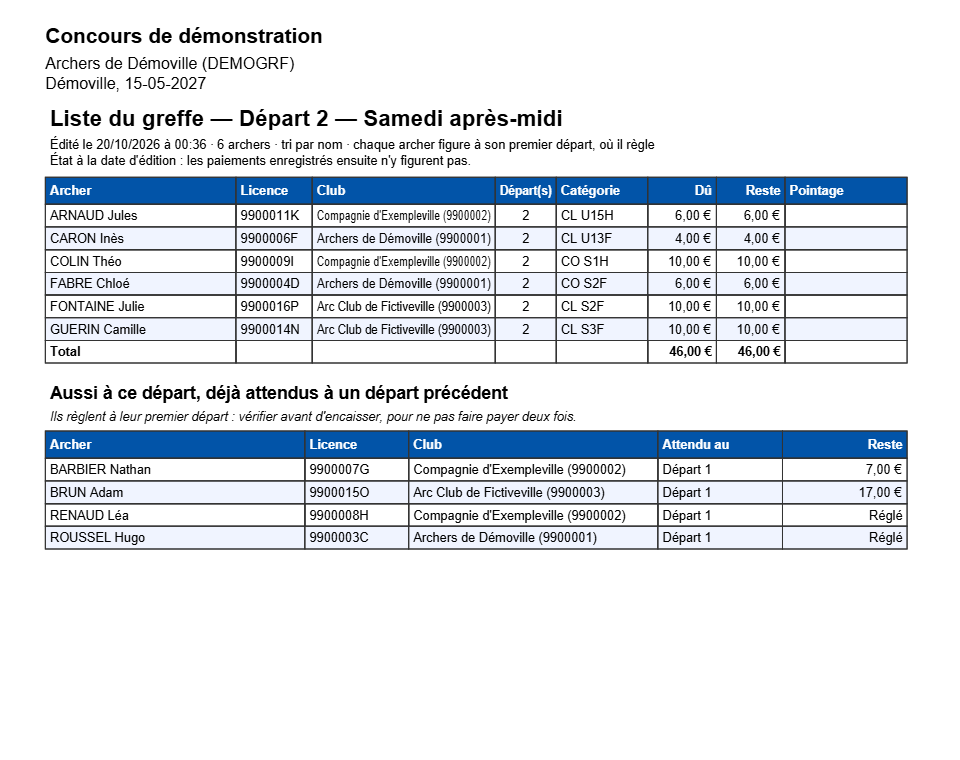
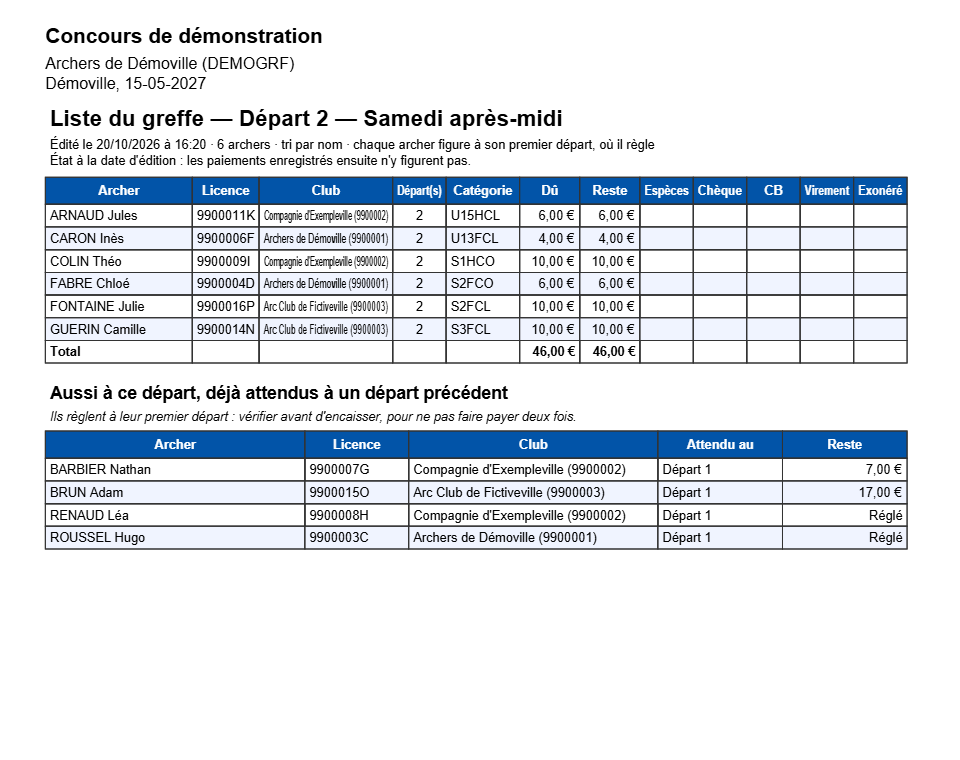
GREFFE 1.3.3 : liste papier par moyen de paiement, catégories S2HCL

diff --git a/liste.php b/liste.php
@@ -9,9 +9,9 @@
  *   ?sort=club      tri par club puis nom (défaut : nom)
  *
  * Par départ, un archer figure au départ où il règle, son premier départ ; ses départs suivants
- * le rappellent dans un encadré « déjà attendu » (lib/report.php, eng_greffe_list). La colonne
- * « Pointage » reste vide pour noter le règlement à la main ; elle porte le moyen et la date d'un
- * paiement déjà enregistré.
+ * le rappellent dans un encadré « déjà attendu » (lib/report.php, eng_greffe_list). Une colonne
+ * par moyen de paiement, vide pour cocher le règlement à la main ; un paiement déjà enregistré y
+ * porte sa date, dans la colonne de son moyen.
  */
 define('ENG_ACCESS', 'read');
 require_once __DIR__ . '/lib/boot.php';
@@ -50,12 +50,18 @@ function eng_list_left(array $a)
     return $a['payment'] ? 'Réglé' : '—';
 }
 
-/** Pointage : vide si quelque chose reste dû, sinon le moyen et la date du paiement. */
+/**
+ * Colonnes des moyens de paiement : vides si quelque chose reste dû (à cocher à la main), sinon la
+ * date du paiement dans la colonne de son moyen.
+ */
 function eng_list_paid(array $a, array $methods)
 {
+    $cells = array_fill_keys(array_keys($methods), '');
     $p = $a['payment'];
-    if (!$p || eng_account_amounts($a)['left'] > 0 || $a['status'] === 'waived') return '';
-    return ($methods[$p['EpMethod']] ?? $p['EpMethod']) . ' ' . eng_local_time($p['EpCreated'], 'd/m');
+    if ($p && eng_account_amounts($a)['left'] <= 0 && isset($cells[$p['EpMethod']])) {
+        $cells[$p['EpMethod']] = eng_local_time($p['EpCreated'], 'd/m');
+    }
+    return array_values($cells);
 }
 
 $sections = eng_greffe_list($accounts, $scope, $only, $sort, $tour->Sessions);
@@ -83,7 +89,7 @@ foreach ($sections as $k => $sec) {
     } else {
         $rows = [];
         foreach ($sec['rows'] as $a) {
-            $rows[] = [
+            $rows[] = array_merge([
                 trim(mb_strtoupper($a['name']) . ' ' . $a['first']),
                 $a['code'],
                 trim($a['club_name'] . ($a['club_code'] !== '' ? ' (' . $a['club_code'] . ')' : '')),
@@ -91,13 +97,14 @@ foreach ($sections as $k => $sec) {
                 implode(' / ', $a['cats']),
                 eng_pdf_money($a['due']),
                 eng_list_left($a),
-                eng_list_paid($a, $methods),
-            ];
+            ], eng_list_paid($a, $methods));
         }
-        eng_pdf_table($pdf,
-            [['Archer', 25, 'L'], ['Licence', 10, 'L'], ['Club', 24, 'L'], ['Départ(s)', 8, 'C'], ['Catégorie', 12, 'L'],
-             ['Dû', 9, 'R'], ['Reste', 9, 'R'], ['Pointage', 16, 'L']],
-            $rows, ['Total', '', '', '', '', eng_pdf_money($sec['due']), eng_pdf_money($sec['left']), '']);
+        $cols = [['Archer', 22, 'L'], ['Licence', 10, 'L'], ['Club', 20, 'L'], ['Départ(s)', 8, 'C'], ['Catégorie', 11, 'L'],
+                 ['Dû', 9, 'R'], ['Reste', 9, 'R']];
+        $short = ['cb' => 'CB'];   // « Carte bancaire » ne tient pas dans une colonne étroite
+        foreach ($methods as $key => $label) $cols[] = [$short[$key] ?? $label, 8, 'C'];
+        eng_pdf_table($pdf, $cols, $rows,
+            array_merge(['Total', '', '', '', '', eng_pdf_money($sec['due']), eng_pdf_money($sec['left'])], array_fill(0, count($methods), '')), 'C');
     }
 
     if ($sec['also']) {
@@ -112,7 +119,7 @@ foreach ($sections as $k => $sec) {
                        trim($a['club_name'] . ($a['club_code'] !== '' ? ' (' . $a['club_code'] . ')' : '')),
                        'Départ ' . $x['first'], eng_list_left($a)];
         }
-        eng_pdf_table($pdf, [['Archer', 25, 'L'], ['Licence', 10, 'L'], ['Club', 24, 'L'], ['Attendu au', 12, 'L'], ['Reste', 12, 'R']], $rows);
+        eng_pdf_table($pdf, [['Archer', 25, 'L'], ['Licence', 10, 'L'], ['Club', 24, 'L'], ['Attendu au', 12, 'L'], ['Reste', 12, 'R']], $rows, null, 'C');
     }
 }
 

diff --git a/lib/pdf.php b/lib/pdf.php
@@ -56,19 +56,21 @@ function eng_pdf_section(IanseoPdf $pdf, $title, $keep = 20)
  *                    texte contenant « \n » passe sur plusieurs lignes (et revient
  *                    à la ligne s'il est trop long) : la ligne entière s'agrandit.
  * @param array|null $total Ligne de total, en gras (facultative).
+ * @param string|null $headAlign Alignement des en-têtes ('C' : centrés) ; par défaut, celui de la
+ *                               colonne (à droite pour 'R', sinon à gauche).
  */
-function eng_pdf_table(IanseoPdf $pdf, array $cols, array $rows, $total = null)
+function eng_pdf_table(IanseoPdf $pdf, array $cols, array $rows, $total = null, $headAlign = null)
 {
     $w = eng_pdf_width($pdf);
     $sum = array_sum(array_column($cols, 1));
     $widths = array_map(function ($c) use ($w, $sum) { return $w * $c[1] / $sum; }, $cols);
 
-    $head = function () use ($pdf, $cols, $widths) {
+    $head = function () use ($pdf, $cols, $widths, $headAlign) {
         $pdf->SetFont($pdf->FontStd, 'B', 8);
         $pdf->SetFillColor(2, 84, 168);
         $pdf->SetTextColor(255, 255, 255);
         foreach ($cols as $i => $c) {
-            $pdf->Cell($widths[$i], 6, $c[0], 1, 0, $c[2] === 'R' ? 'R' : 'L', 1);
+            $pdf->Cell($widths[$i], 6, $c[0], 1, 0, $headAlign ?? ($c[2] === 'R' ? 'R' : 'L'), 1);
         }
         $pdf->Ln();
         $pdf->SetTextColor(0, 0, 0);

diff --git a/lib/accounts.php b/lib/accounts.php
@@ -77,7 +77,7 @@ function eng_reference_entry(array $entries)
  *               devient une clé entière ; utiliser $account['key']), triés par nom
  *               puis prénom. Chaque compte :
  *   key, code, name (nom de famille), first (prénom), club_id, club_code, club_name,
- *   entries (triées), n, sessions[], cats[] (« CL S1H » distincts), mixed,
+ *   entries (triées), n, sessions[], cats[] (« S1HCL » distincts), mixed,
  *   price (résultat eng_price), pays ('yes' | 'no' | 'partial'),
  *   due (tarif, y compris pour un exonéré), payment (ou null),
  *   status : unpaid | paid | diff | waived (paiement « exonere ») | exempt (EnPays = 0),
@@ -110,7 +110,7 @@ function eng_build_accounts(array $rows, array $payments, array $config)
         $cats = $sessions = [];
         $payN = 0;
         foreach ($entries as $e) {
-            $cat = trim($e['EnDivision']) . ' ' . trim($e['EnClass']);
+            $cat = trim($e['EnClass']) . trim($e['EnDivision']);   // « S2HCL » : classe puis arme, comme IANSEO
             if (!in_array($cat, $cats, true)) $cats[] = $cat;
             $sessions[] = intval($e['QuSession']);
             if (intval($e['EnPays']) === 1) $payN++;

diff --git a/paiements.php b/paiements.php
@@ -260,7 +260,7 @@ include($CFG->DOCUMENT_PATH . 'Common/Templates/head.php');
     </div>
 
     <form class="club print" method="get" action="<?= eng_h($ENG_ROOT . 'liste.php') ?>" target="_blank">
-        <b>Liste papier du greffe (PDF)</b> — les archers et ce qu'ils doivent, avec une colonne pour pointer à la main.<br><br>
+        <b>Liste papier du greffe (PDF)</b> — les archers et ce qu'ils doivent, avec une colonne par moyen de paiement pour pointer à la main.<br><br>
         <select name="depart">
             <option value="all">Tous les départs confondus</option>
             <option value="each">Par départ (une page par départ)</option>

diff --git a/docs/UTILISATION.md b/docs/UTILISATION.md
@@ -47,8 +47,9 @@ payer. BARBIER Nathan est en « Payé — écart » : un départ a été ajouté
   date du paiement) ; un second clic inverse l'ordre. Le tri et les filtres restent en place après chaque paiement.
 - **Reçu / Récap. :** sous le montant de chaque archer, ce lien ouvre son reçu PDF.
 - **Liste papier du greffe (PDF)** : cadre « Liste papier du greffe », bouton « Éditer la liste ». Une ligne par archer :
-  licence, club, départ(s), catégorie, **montant dû**, **reste à régler** (ou « Réglé », « Exonéré »), et une colonne
-  **Pointage** vide pour noter le règlement à la main (elle indique le moyen et la date d'un paiement déjà enregistré).
+  licence, club, départ(s), catégorie (classe puis arme : « S2HCL »), **montant dû**, **reste à régler** (ou « Réglé », « Exonéré »), puis **une
+  colonne par moyen de paiement** (Espèces, Chèque, CB, Virement, Exonéré), vides pour cocher le règlement à la main.
+  Un paiement déjà enregistré y figure par sa date, dans la colonne de son moyen.
   Total en bas de chaque liste. Choix :
   - **Tous les départs confondus**, **Par départ** (une page par départ, puis les archers non placés) ou **un seul départ** ;
   - **Tous les archers** ou **seulement ceux qui doivent encore** ;

diff --git a/docs/NOUVEAUTES.md b/docs/NOUVEAUTES.md
@@ -1,5 +1,15 @@
 # Nouveautés de chaque version
 
+## 1.3.3
+
+- **Liste papier du greffe** : la colonne « Pointage » est remplacée par une colonne par moyen de paiement (Espèces,
+  Chèque, CB, Virement, Exonéré), à cocher à la main. Un paiement déjà enregistré y figure par sa date, dans la
+  colonne de son moyen.
+- **Catégories** écrites classe puis arme, comme dans IANSEO : « S2HCL » au lieu de « CL S2H », partout dans le
+  module (page Paiements, Rapport - Bilan, exports CSV, reçus et récapitulatifs, liste papier). Le tri par catégorie
+  de la page Paiements suit donc la classe, puis l'arme.
+- **Liste papier du greffe** : en-têtes des colonnes centrés.
+
 ## 1.3.2
 
 - **Mise à jour du module sous Windows.** La mise à jour depuis IANSEO s'arrêtait sur « Écriture impossible :

diff --git a/README.md b/README.md
@@ -1,6 +1,6 @@
 # Greffe — frais d'inscription pour IANSEO
 
-**Version 1.3.2**
+**Version 1.3.3**
 
 Module IANSEO pour gérer les frais d'inscription d'une compétition :
 - **Tarifs** : les prix, selon la catégorie de l'archer, son club et son nombre de départs ;
